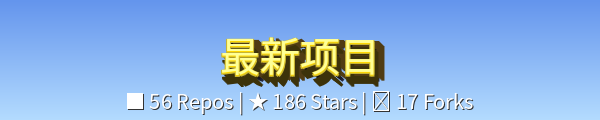
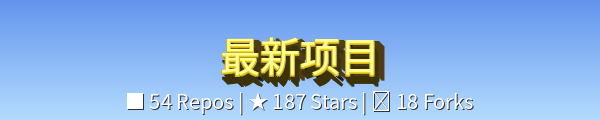
自动化: 更新最新项目列表、标题图片和周报存档 (Automated: Update latest projects, title image, and weekly report archives)

Changed region(s): [[0.66, 0.775, 0.72, 0.925], [0.48, 0.775, 0.51, 0.925], [0.27, 0.775, 0.3, 0.925]]

diff --git a/Readme.md b/Readme.md
@@ -26,15 +26,15 @@
 
 ### 📊 本周活动摘要 (Weekly Activity Summary)
 
-- 📝 本周共有 **9** 次提交分布在 **4** 个仓库中
+- 📝 本周共有 **14** 次提交分布在 **4** 个仓库中
 - 🔥 最活跃的仓库:
   - **AstrBotCanary**: 5 次提交
-  - **PromptAssembler**: 2 次提交
-  - **WechatPublicAPI**: 1 次提交
+  - **lightjunction**: 5 次提交
+  - **AIVK**: 2 次提交
 
-- 🔄 最近更新的仓库: **AstrBotCanary**
+- 🔄 最近更新的仓库: **BFM_config-**
 
-- 📋 [查看上周报告 (View Last Week's Report)](archives/weekly_reports/weekly_report_20251005_211314_076998.md)
+- 📋 [查看上周报告 (View Last Week's Report)](archives/weekly_reports/weekly_report_20251005_204409_433336.md)
 
 <!-- END_DYNAMIC_SUMMARY -->
 
@@ -42,16 +42,16 @@
 
 <!-- START_DYNAMIC_REPO_LIST -->
 
-- **[AstrBotCanary](https://github.com/LIghtJUNction/AstrBotCanary)** - This is an officially supported Astrbot
-  - 📊 `⭐ 1 | 🍴 0 | 💻 Python | 🕒 2025-10-18`
 - **[BFM_config-](https://github.com/LIghtJUNction/BFM_config-)** - config for clash meta (mihomo ) | clash verge (pc and android) |box for magsik|kernelsu|apatch (need root)(透明proxy)   | DNS 泄露已解决 | 点击下方链接跳转至自定义rule仓库
-  - 📊 `⭐ 36 | 🍴 5 | 💻 Shell | 🕒 2025-10-18`
-- **[Robyn](https://github.com/LIghtJUNction/Robyn)** - Robyn is a Super Fast Async Python Web Framework with a Rust runtime.
-  - 📊 `⭐ 0 | 🍴 0 | 💻 None | 🕒 2025-10-14`
-- **[taskiq](https://github.com/LIghtJUNction/taskiq)** - Distributed task queue with full async support
-  - 📊 `⭐ 0 | 🍴 0 | 💻 None | 🕒 2025-10-14`
-- **[WechatPublicAPI](https://github.com/LIghtJUNction/WechatPublicAPI)** - fuckUhacker
-  - 📊 `⭐ 125 | 🍴 8 | 💻 Python | 🕒 2025-10-13`
+  - 📊 `⭐ 36 | 🍴 5 | 💻 Shell | 🕒 2025-10-25`
+- **[AstrBotCanary](https://github.com/LIghtJUNction/AstrBotCanary)** - This is an officially supported Astrbot
+  - 📊 `⭐ 2 | 🍴 0 | 💻 Python | 🕒 2025-10-25`
+- **[lightjunction](https://github.com/LIghtJUNction/lightjunction)** - I'M LIghtJUNction
+  - 📊 `⭐ 1 | 🍴 0 | 💻 Python | 🕒 2025-10-24`
+- **[AIVK](https://github.com/LIghtJUNction/AIVK)** - AI内核计划
+  - 📊 `⭐ 1 | 🍴 0 | 💻 Python | 🕒 2025-10-22`
+- **[PeakMods](https://github.com/LIghtJUNction/PeakMods)** - peak modding
+  - 📊 `⭐ 1 | 🍴 1 | 💻 C# | 🕒 2025-10-21`
 
 <!-- END_DYNAMIC_REPO_LIST -->
 
@@ -62,15 +62,16 @@
 
 <!-- START_DYNAMIC_COMMITS -->
 
-- **[AstrBotCanary](https://github.com/LIghtJUNction/AstrBotCanary)** - [ee6183e](https://github.com/LIghtJUNction/AstrBotCanary/commit/ee6183e589a7f2c4117a4f7d39dedafaefbdbd56) - 基础工作 `2025-10-18 23:09`
-- **[AstrBotCanary](https://github.com/LIghtJUNction/AstrBotCanary)** - [fce6048](https://github.com/LIghtJUNction/AstrBotCanary/commit/fce604800a821b36fa0317e42db0e7d3a24b042b) - 开发消息调度系统 `2025-10-18 22:35`
-- **[AstrBotCanary](https://github.com/LIghtJUNction/AstrBotCanary)** - [b14b196](https://github.com/LIghtJUNction/AstrBotCanary/commit/b14b196c5b643e6602c2339c4022f1ee726eb139) - 任务系统！ `2025-10-18 20:01`
-- **[AstrBotCanary](https://github.com/LIghtJUNction/AstrBotCanary)** - [933573c](https://github.com/LIghtJUNction/AstrBotCanary/commit/933573c929021785f949ab6c4ae3c9cd13f36447) - 控制台支持 `2025-10-18 17:46`
-- **[AstrBotCanary](https://github.com/LIghtJUNction/AstrBotCanary)** - [31fa4a2](https://github.com/LIghtJUNction/AstrBotCanary/commit/31fa4a232d0936240c93a828f452bb0eb0cceb7a) - Update README.md `2025-10-18 14:02`
-- **[WechatPublicAPI](https://github.com/LIghtJUNction/WechatPublicAPI)** - [25daa3b](https://github.com/LIghtJUNction/WechatPublicAPI/commit/25daa3bf39044411a8307c905de55cc4b8ad9f70) - 更新 README.md `2025-10-13 20:17`
-- **[PromptAssembler](https://github.com/LIghtJUNction/PromptAssembler)** - [01fe26b](https://github.com/LIghtJUNction/PromptAssembler/commit/01fe26bb15d03f58f6dc271e3f8337ce9a70d99e) - 更新 README.md `2025-10-13 20:14`
-- **[PromptAssembler](https://github.com/LIghtJUNction/PromptAssembler)** - [743cd08](https://github.com/LIghtJUNction/PromptAssembler/commit/743cd08f9c5280f7e315aca3b8b8b0154a678285) - 更新 README.md `2025-10-13 20:12`
-- **[PeakMods](https://github.com/LIghtJUNction/PeakMods)** - [c6553f6](https://github.com/LIghtJUNction/PeakMods/commit/c6553f68133a4ee32f6ad976c337cf6ff0bfddb0) - 更新 README.md `2025-10-13 19:58`
+- **[AstrBotCanary](https://github.com/LIghtJUNction/AstrBotCanary)** - [4df3bcc](https://github.com/LIghtJUNction/AstrBotCanary/commit/4df3bcc0b7116d8eee8aacd90c3932d59cb21dfd) - Update README.md `2025-10-25 16:18`
+- **[lightjunction](https://github.com/LIghtJUNction/lightjunction)** - [50d7bf8](https://github.com/LIghtJUNction/lightjunction/commit/50d7bf887e4f5428e526f71d9406742cdaea9189) - 更新 Readme.md `2025-10-24 20:04`
+- **[AstrBotCanary](https://github.com/LIghtJUNction/AstrBotCanary)** - [40e3911](https://github.com/LIghtJUNction/AstrBotCanary/commit/40e39119d72832de512863b3316725d0d14aad02) - 更新 README.md `2025-10-24 09:01`
+- **[AstrBotCanary](https://github.com/LIghtJUNction/AstrBotCanary)** - [8d3560a](https://github.com/LIghtJUNction/AstrBotCanary/commit/8d3560a7776f90704d3c84c865030fd81e767523) - 更新 README.md `2025-10-24 02:14`
+- **[lightjunction](https://github.com/LIghtJUNction/lightjunction)** - [d6935b5](https://github.com/LIghtJUNction/lightjunction/commit/d6935b524e563fa46a920ed39c37414f73191e5f) - 更新 Readme.md `2025-10-24 01:58`
+- **[lightjunction](https://github.com/LIghtJUNction/lightjunction)** - [bcd15b1](https://github.com/LIghtJUNction/lightjunction/commit/bcd15b176a828e063f8a39cc6b94534177f17364) - 更新 Readme.md `2025-10-23 23:14`
+- **[lightjunction](https://github.com/LIghtJUNction/lightjunction)** - [efec103](https://github.com/LIghtJUNction/lightjunction/commit/efec1036a21f7f1c2f5ca9461417f87a2aaa68a4) - 更新 Readme.md `2025-10-23 23:12`
+- **[lightjunction](https://github.com/LIghtJUNction/lightjunction)** - [eb875a2](https://github.com/LIghtJUNction/lightjunction/commit/eb875a232e2b278a4312ea5eddbd83b66e792959) - 更新 Readme.md `2025-10-23 23:10`
+- **[AstrBotCanary](https://github.com/LIghtJUNction/AstrBotCanary)** - [4cd1d8f](https://github.com/LIghtJUNction/AstrBotCanary/commit/4cd1d8fbe2b6c9b91585f0f69787c90c83f9f9b6) - 更新 README.md `2025-10-22 22:42`
+- **[AstrBotCanary](https://github.com/LIghtJUNction/AstrBotCanary)** - [c023bcd](https://github.com/LIghtJUNction/AstrBotCanary/commit/c023bcd8a24f8e4d5b6e8d84a3c4d9feca269b22) - 更新 README.md `2025-10-22 21:48`
 
 <!-- END_DYNAMIC_COMMITS -->
 

diff --git a/archives/weekly_reports/weekly_report_20251026_015445_037829.md b/archives/weekly_reports/weekly_report_20251026_015445_037829.md
@@ -1,0 +1,93 @@
+
+![Python](https://img.shields.io/badge/Python-3776AB?style=for-the-badge&logo=python&logoColor=white)
+![GitHub Followers](https://img.shields.io/github/followers/LIghtJUNction?label=Follow&style=social)
+
+
+
+<a href="https://steamcommunity.com/id/LIghtJUNction/">
+  <img height=180 src="https://github-readme-stats.vercel.app/api?username=LIghtJUNction&show_icons=true&theme=radical" />
+</a>
+
+<a href="https://steamcommunity.com/id/LIghtJUNction/">
+  <img height=180 src="https://github-readme-stats.vercel.app/api/top-langs?username=lightjunction&layout=compact&langs_count=5&show_icons=true&theme=tokyonight" />
+</a>
+
+---
+
+
+### ✨ 最新项目 (Latest Projects)
+<!-- START_DYNAMIC_TITLE_IMAGE -->
+
+![最新项目](generated_images/latest_projects_title.png)
+
+<!-- END_DYNAMIC_TITLE_IMAGE -->
+
+<!-- START_DYNAMIC_SUMMARY -->
+
+### 📊 本周活动摘要 (Weekly Activity Summary)
+
+- 📝 本周共有 **9** 次提交分布在 **4** 个仓库中
+- 🔥 最活跃的仓库:
+  - **AstrBotCanary**: 5 次提交
+  - **PromptAssembler**: 2 次提交
+  - **WechatPublicAPI**: 1 次提交
+
+- 🔄 最近更新的仓库: **AstrBotCanary**
+
+- 📋 [查看上周报告 (View Last Week's Report)](archives/weekly_reports/weekly_report_20251005_211314_076998.md)
+
+<!-- END_DYNAMIC_SUMMARY -->
+
+---
+
+<!-- START_DYNAMIC_REPO_LIST -->
+
+- **[AstrBotCanary](https://github.com/LIghtJUNction/AstrBotCanary)** - This is an officially supported Astrbot
+  - 📊 `⭐ 1 | 🍴 0 | 💻 Python | 🕒 2025-10-18`
+- **[BFM_config-](https://github.com/LIghtJUNction/BFM_config-)** - config for clash meta (mihomo ) | clash verge (pc and android) |box for magsik|kernelsu|apatch (need root)(透明proxy)   | DNS 泄露已解决 | 点击下方链接跳转至自定义rule仓库
+  - 📊 `⭐ 36 | 🍴 5 | 💻 Shell | 🕒 2025-10-18`
+- **[Robyn](https://github.com/LIghtJUNction/Robyn)** - Robyn is a Super Fast Async Python Web Framework with a Rust runtime.
+  - 📊 `⭐ 0 | 🍴 0 | 💻 None | 🕒 2025-10-14`
+- **[taskiq](https://github.com/LIghtJUNction/taskiq)** - Distributed task queue with full async support
+  - 📊 `⭐ 0 | 🍴 0 | 💻 None | 🕒 2025-10-14`
+- **[WechatPublicAPI](https://github.com/LIghtJUNction/WechatPublicAPI)** - fuckUhacker
+  - 📊 `⭐ 125 | 🍴 8 | 💻 Python | 🕒 2025-10-13`
+
+<!-- END_DYNAMIC_REPO_LIST -->
+
+---
+
+<details>
+  <summary>📝 近期提交 (Recent Commits - 最近7天)</summary>
+
+<!-- START_DYNAMIC_COMMITS -->
+
+- **[AstrBotCanary](https://github.com/LIghtJUNction/AstrBotCanary)** - [ee6183e](https://github.com/LIghtJUNction/AstrBotCanary/commit/ee6183e589a7f2c4117a4f7d39dedafaefbdbd56) - 基础工作 `2025-10-18 23:09`
+- **[AstrBotCanary](https://github.com/LIghtJUNction/AstrBotCanary)** - [fce6048](https://github.com/LIghtJUNction/AstrBotCanary/commit/fce604800a821b36fa0317e42db0e7d3a24b042b) - 开发消息调度系统 `2025-10-18 22:35`
+- **[AstrBotCanary](https://github.com/LIghtJUNction/AstrBotCanary)** - [b14b196](https://github.com/LIghtJUNction/AstrBotCanary/commit/b14b196c5b643e6602c2339c4022f1ee726eb139) - 任务系统！ `2025-10-18 20:01`
+- **[AstrBotCanary](https://github.com/LIghtJUNction/AstrBotCanary)** - [933573c](https://github.com/LIghtJUNction/AstrBotCanary/commit/933573c929021785f949ab6c4ae3c9cd13f36447) - 控制台支持 `2025-10-18 17:46`
+- **[AstrBotCanary](https://github.com/LIghtJUNction/AstrBotCanary)** - [31fa4a2](https://github.com/LIghtJUNction/AstrBotCanary/commit/31fa4a232d0936240c93a828f452bb0eb0cceb7a) - Update README.md `2025-10-18 14:02`
+- **[WechatPublicAPI](https://github.com/LIghtJUNction/WechatPublicAPI)** - [25daa3b](https://github.com/LIghtJUNction/WechatPublicAPI/commit/25daa3bf39044411a8307c905de55cc4b8ad9f70) - 更新 README.md `2025-10-13 20:17`
+- **[PromptAssembler](https://github.com/LIghtJUNction/PromptAssembler)** - [01fe26b](https://github.com/LIghtJUNction/PromptAssembler/commit/01fe26bb15d03f58f6dc271e3f8337ce9a70d99e) - 更新 README.md `2025-10-13 20:14`
+- **[PromptAssembler](https://github.com/LIghtJUNction/PromptAssembler)** - [743cd08](https://github.com/LIghtJUNction/PromptAssembler/commit/743cd08f9c5280f7e315aca3b8b8b0154a678285) - 更新 README.md `2025-10-13 20:12`
+- **[PeakMods](https://github.com/LIghtJUNction/PeakMods)** - [c6553f6](https://github.com/LIghtJUNction/PeakMods/commit/c6553f68133a4ee32f6ad976c337cf6ff0bfddb0) - 更新 README.md `2025-10-13 19:58`
+
+<!-- END_DYNAMIC_COMMITS -->
+
+</details>
+
+---
+
+<details>
+  <summary>💬 点击执行</summary>
+
+  - 🎮 轻度游戏，喜欢玩生存建造模拟类游戏，比如缺氧（但实际上玩的时长也不算长）
+  - 📫 如何联系我 : lightjunction.me@gmail.com
+  - ⚡ 为什么编程?因为好玩
+
+
+</details>
+
+---
+
+- 💰 [赞助 (Sponsor Me)](https://github.com/LIghtJUNction/lightjunction/tree/master/sponsor)
